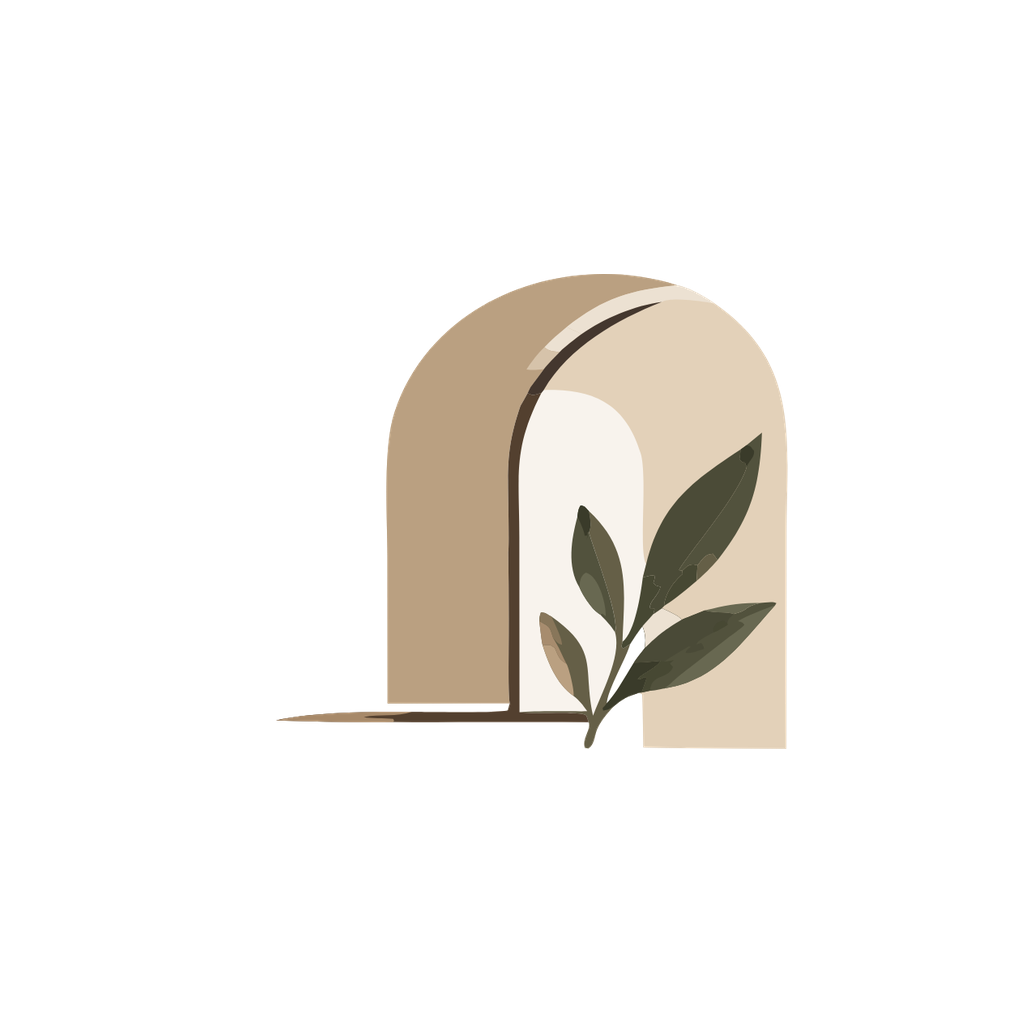
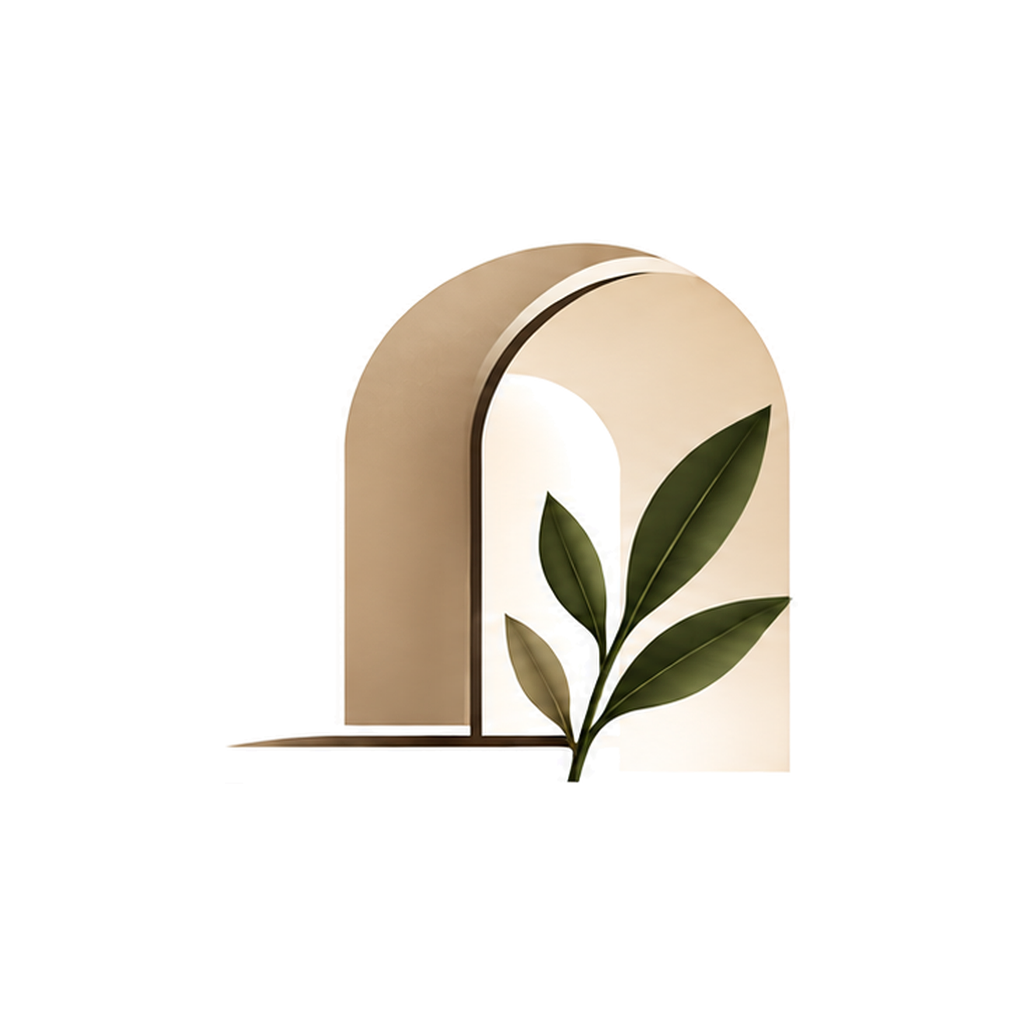
Add files via upload

Changed region(s): [[0.2188, 0.2188, 0.7812, 0.7812], [0.7188, 0.3125, 0.75, 0.3438]]

diff --git a/src/components/logo.tsx b/src/components/logo.tsx
@@ -1,6 +1,6 @@
 /**
- * Roomorph logo. Source vectors live in assets/brand/logo-*.svg; the app uses
- * high-res PNG exports of them (React Native has no built-in SVG renderer).
+ * Roomsera logo. PNGs with transparent backgrounds in assets/brand
+ * (React Native has no built-in SVG renderer).
  */
 import { Image } from 'expo-image';
 import { View } from 'react-native';
@@ -8,23 +8,23 @@ import { View } from 'react-native';
 import { Txt } from '@/components/ui';
 import { colors } from '@/theme';
 
-const MARK = require('../../assets/brand/logo-mark.png'); // 632×587
-const HORIZONTAL = require('../../assets/brand/logo-horizontal.png'); // 2192×587
-const STACKED = require('../../assets/brand/logo-stacked.png'); // 1473×1276
+const MARK = require('../../assets/brand/logo-mark.png'); // 409×389
+const HORIZONTAL = require('../../assets/brand/logo-horizontal.png'); // 1142×296
+const STACKED = require('../../assets/brand/logo-stacked.png'); // 591×498
 
 /** Arch + leaf mark only. `size` = height. */
 export function LogoMark({ size = 32 }: { size?: number }) {
-  return <Image source={MARK} style={{ height: size, width: size * (632 / 587) }} contentFit="contain" accessibilityLabel="Roomorph" />;
+  return <Image source={MARK} style={{ height: size, width: size * (409 / 389) }} contentFit="contain" accessibilityLabel="Roomsera" />;
 }
 
-/** Mark + "Roomorph" side by side. `height` = logo height. */
+/** Mark + "Roomsera" side by side. `height` = logo height. */
 export function LogoHorizontal({ height = 28 }: { height?: number }) {
   return (
     <Image
       source={HORIZONTAL}
-      style={{ height, width: height * (2192 / 587) }}
+      style={{ height, width: height * (1142 / 296) }}
       contentFit="contain"
-      accessibilityLabel="Roomorph"
+      accessibilityLabel="Roomsera"
     />
   );
 }
@@ -33,7 +33,7 @@ export function LogoHorizontal({ height = 28 }: { height?: number }) {
 export function Wordmark({ width = 200, tagline = true }: { width?: number; tagline?: boolean }) {
   return (
     <View style={{ alignItems: 'center' }}>
-      <Image source={STACKED} style={{ width, height: width * (1276 / 1473) }} contentFit="contain" accessibilityLabel="Roomorph" />
+      <Image source={STACKED} style={{ width, height: width * (498 / 591) }} contentFit="contain" accessibilityLabel="Roomsera" />
       {tagline && (
         <Txt variant="label" style={{ color: colors.muted, letterSpacing: 4, fontSize: 10, marginTop: 14 }}>
           Spaces evolve with you

diff --git a/src/app/shop/[id].tsx b/src/app/shop/[id].tsx
@@ -123,7 +123,7 @@ export default function Shop() {
         <View style={styles.note}>
           <Feather name="info" size={14} color={colors.muted} />
           <Txt variant="small" style={{ flex: 1, fontSize: 12 }}>
-            Prices are estimates for similar items. Stores open in your browser — Roomorph doesn’t sell or ship
+            Prices are estimates for similar items. Stores open in your browser — Roomsera doesn’t sell or ship
             anything.
           </Txt>
         </View>

diff --git a/src/theme.ts b/src/theme.ts
@@ -1,7 +1,7 @@
 /**
- * Roomorph theme — single source of truth for the look of the app.
+ * Roomsera theme — single source of truth for the look of the app.
  * Reskin everything by editing this file. Values come from the
- * Roomorph moodboard: ivory, sand, taupe, sage, charcoal, terracotta;
+ * Roomsera moodboard: ivory, sand, taupe, sage, charcoal, terracotta;
  * Playfair Display headings, Inter body, wide-tracked uppercase labels.
  */
 

diff --git a/src/app/_layout.tsx b/src/app/_layout.tsx
@@ -28,7 +28,7 @@ const FRESH_START_ON_WEB = true;
 if (Platform.OS === 'web' && FRESH_START_ON_WEB) {
   try {
     Object.keys(window.localStorage)
-      .filter((k) => k.startsWith('roomorph:'))
+      .filter((k) => k.startsWith('roomsera:') || k.startsWith('roomorph:'))
       .forEach((k) => window.localStorage.removeItem(k));
   } catch {
     // storage blocked (private mode etc.) — nothing saved to clear

diff --git a/src/app/(tabs)/settings.tsx b/src/app/(tabs)/settings.tsx
@@ -64,7 +64,7 @@ export default function Settings() {
         </Group>
 
         <Txt variant="small" style={{ textAlign: 'center', marginTop: spacing.xl, fontSize: 12 }}>
-          Roomorph · prototype v0.1
+          Roomsera · prototype v0.1
         </Txt>
       </ScrollView>
     </Screen>

diff --git a/src/store/app-store.tsx b/src/store/app-store.tsx
@@ -50,7 +50,7 @@ type Store = Persisted & {
   resetAll: () => void;
 };
 
-const KEY = 'roomorph:v2';
+const KEY = 'roomsera:v2';
 const EMPTY_DRAFT: Draft = { quality: 'standard' };
 const DEFAULTS: Persisted = { onboarded: false, credits: FREE_CREDITS, history: [] };
 

diff --git a/README.md b/README.md
@@ -1,4 +1,4 @@
-# Roomorph — prototype v0.1
+# Roomsera — prototype v0.1
 
 AI interior redesign app (Expo SDK 57 · React Native · TypeScript · Expo Router).
 This is the **prototype**: the full flow works end to end on your phone, with
